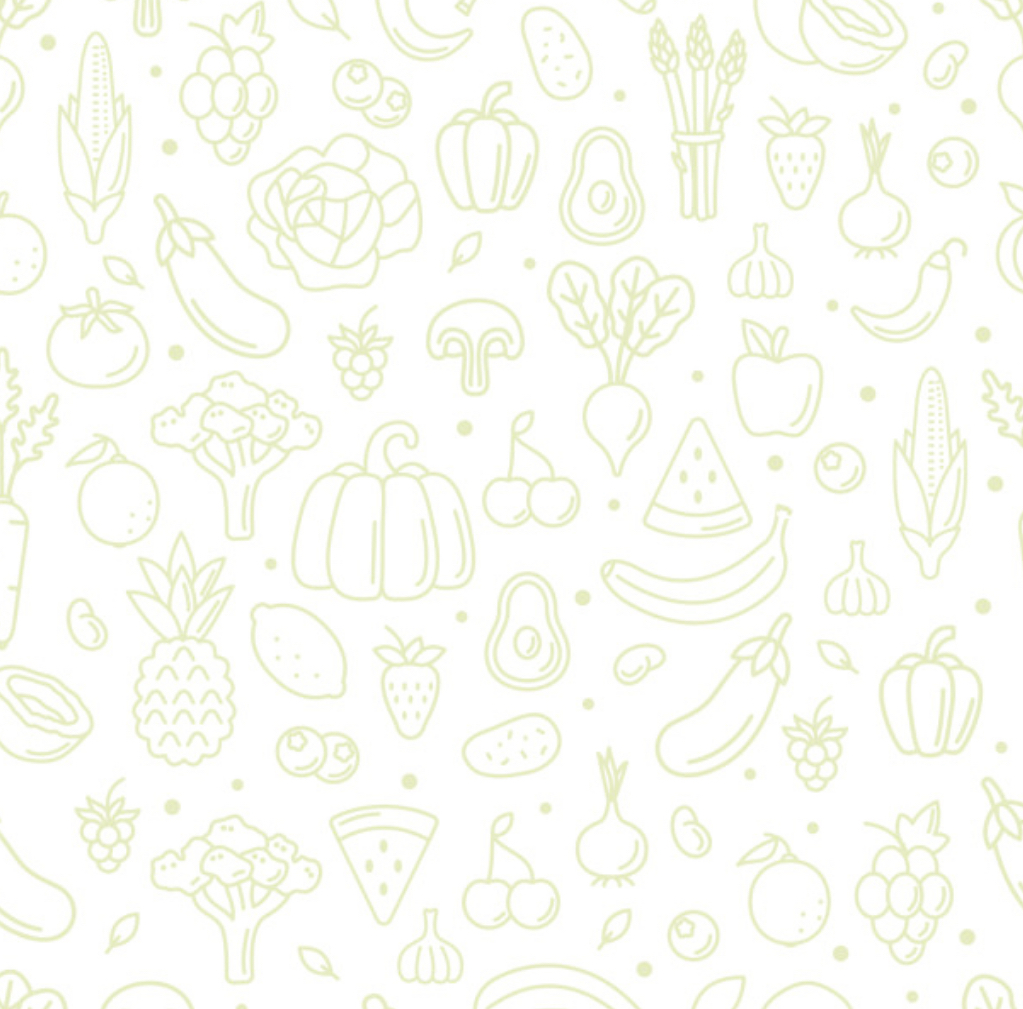
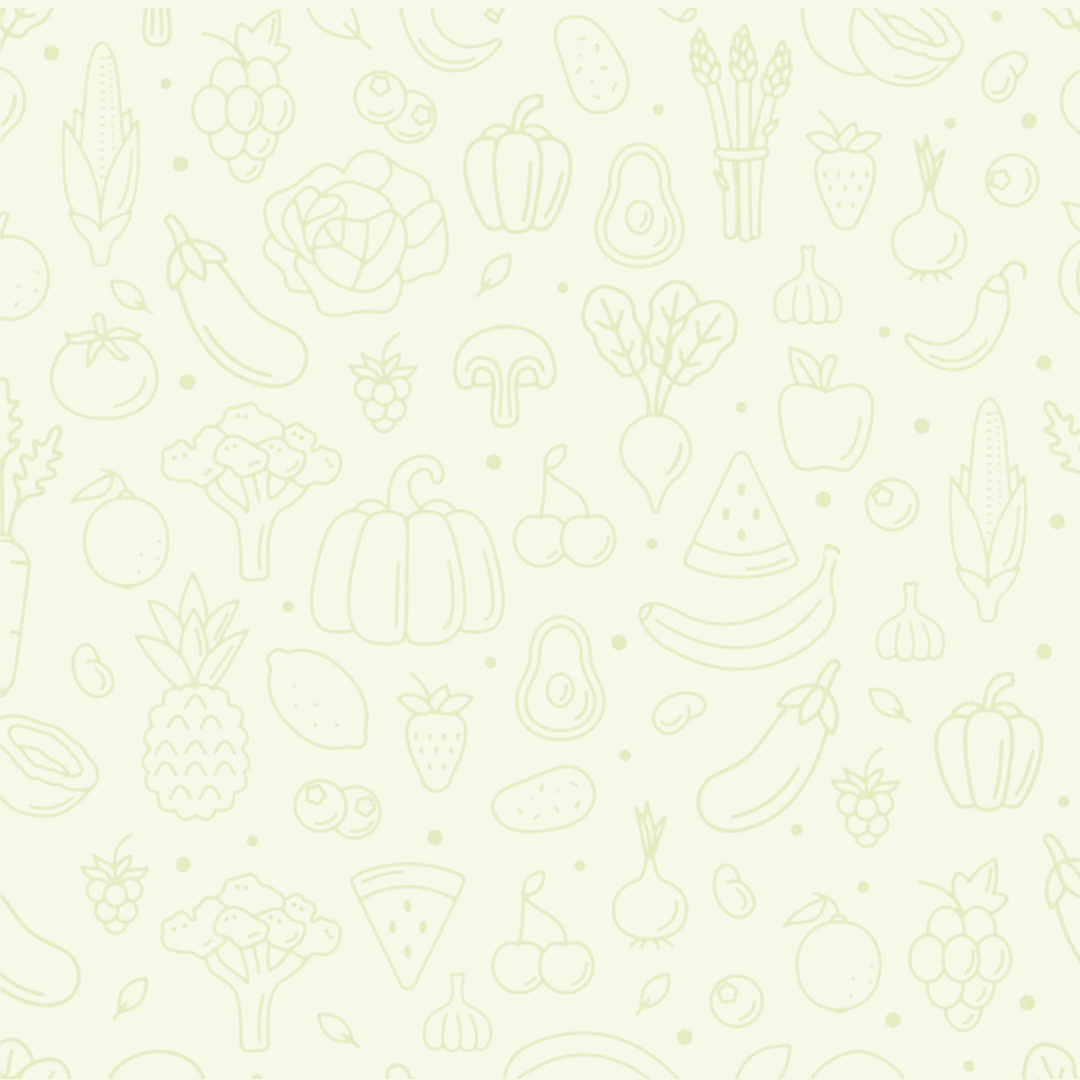
homepage update

diff --git a/templates/home_page.html b/templates/home_page.html
@@ -28,22 +28,20 @@ $(document).ready(function() {
 
     
 </script>
-    
-<div class="home_title_"><b>VEGANISTA</b></div>
-<br>
+
+<div class="container-fluid main-container">
     <div class="row firstrow" id="welcome_title">
-        <b>Let's save millions, one bite at a time. </b>
-        <div class="welcometext"> 
+        <b> VEGANISTA </b>
+    </div>
+    <br>
+    <div class="row welcometext"> 
             Tackling topics ranging from earth's conservation to animal rights,
             here you will find the documentaries that should be on <i>everyone's</i> watchlist.<p>
-            To start, here are three <b> top-rated </b> documentaries that could change the way you live:</p>
-        </div>
+            To start, here are three <b> <u>top-rated</u> </b> documentaries that could change the way you live:</p>
     </div>
     <p></p> 
 
-    <div class="row contentrow" id="homepage_links">
-
-    </div>
-
+    <div class="row contentrow" id="homepage_links"></div>
+</div>
 
 {% endblock %}

diff --git a/static/main.css b/static/main.css
@@ -1,17 +1,19 @@
-.container-fluid {
-  background-color: #f8f8fa;
+.main-container {
+  background-color: #f6f9e8;
+  height: 100vh;
 }
 /* .container {
   background-color: white;
 } */
 
 #welcome_title {
-  font-size: 30px;
+  font-size: 65px;
   padding-top: 20px;
-  color: black;
+  color: #99b120;
   font-family: Arial, Helvetica, sans-serif;
   text-transform: uppercase;
   justify-content: center;
+  text-shadow: 2px 3px #7c8744;
 }
 .firstrow {
   background-image: url("/static/background.jpg");
@@ -20,11 +22,12 @@
   height: 150px;
 }
 .welcometext {
-  font-size: 14px;
+  font-size: 17px;
   text-align: center;
-  color: grey;
+  color: rgb(95, 94, 94);
   text-transform: none;
   padding-bottom: 20px;
+  justify-content: center;
 }
 #welcome_phrase {
   font-size: 13px;

diff --git a/templates/layout.html b/templates/layout.html
@@ -47,7 +47,7 @@
 
      
         {% block content %}
-        <div class="container-fluid"></div>
+        <div class="container-fluid main-container"></div>
         {% endblock %}
 
   </body>

diff --git a/README.md b/README.md
@@ -1,5 +1,3 @@
 # veganista
 
 Database of documentaries about Veganism and Environmental issues. Application is a CRUD Search platform that allows users to -> Create Read Update and Delete entries!
-
-to do: fix title of the page
